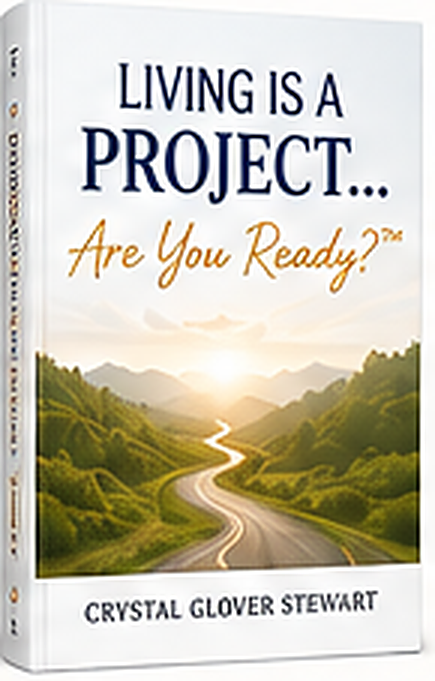
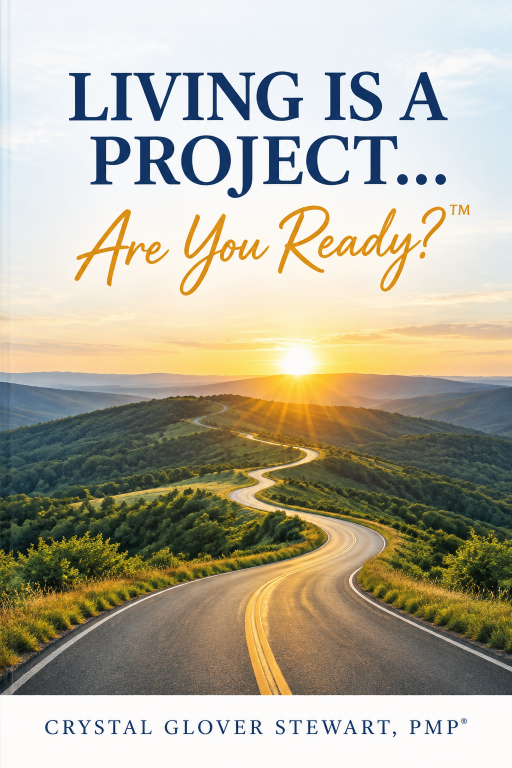
Author page: new cover with Crystal Glover Stewart, PMP®
Owner-supplied cover (2026-10-29), 512x768, replacing the 435x681 mockup.

Claude-Session: https://claude.ai/code/session_01XGi2hUEZvCexNnD34vYAED

diff --git a/app/living-is-a-project/author/page.tsx b/app/living-is-a-project/author/page.tsx
@@ -146,9 +146,9 @@ export default function AuthorPage() {
           <div className="relative mx-auto w-full max-w-[300px]">
             <Image
               src="/liap/author/living-is-a-project-cover.png"
-              alt="Living Is a Project…Are You Ready? by Crystal Glover Stewart — book cover"
-              width={435}
-              height={681}
+              alt="Living Is a Project…Are You Ready? by Crystal Glover Stewart, PMP® — book cover"
+              width={512}
+              height={768}
               priority
               className="h-auto w-full drop-shadow-[0_22px_34px_rgba(0,27,58,0.28)]"
             />
@@ -387,7 +387,7 @@ export default function AuthorPage() {
           <ul className="mt-10 grid gap-6 sm:grid-cols-2 lg:grid-cols-4">
             <li className="flex flex-col overflow-hidden rounded-3xl border border-[#EADFC8]">
               <div className="flex justify-center bg-navy px-6 py-8">
-                <Image src="/liap/author/living-is-a-project-cover.png" alt="Living Is a Project…Are You Ready? book cover" width={150} height={235} className="h-auto w-[150px] drop-shadow-[0_14px_22px_rgba(0,0,0,0.35)]" />
+                <Image src="/liap/author/living-is-a-project-cover.png" alt="Living Is a Project…Are You Ready? book cover" width={150} height={225} className="h-auto w-[150px] drop-shadow-[0_14px_22px_rgba(0,0,0,0.35)]" />
               </div>
               <div className="flex flex-1 flex-col gap-2 p-5">
                 <p className={`text-xs font-bold uppercase tracking-[0.08em] ${GOLD_TEXT}`}>Pre-buy now · {publicationDate()}</p>
